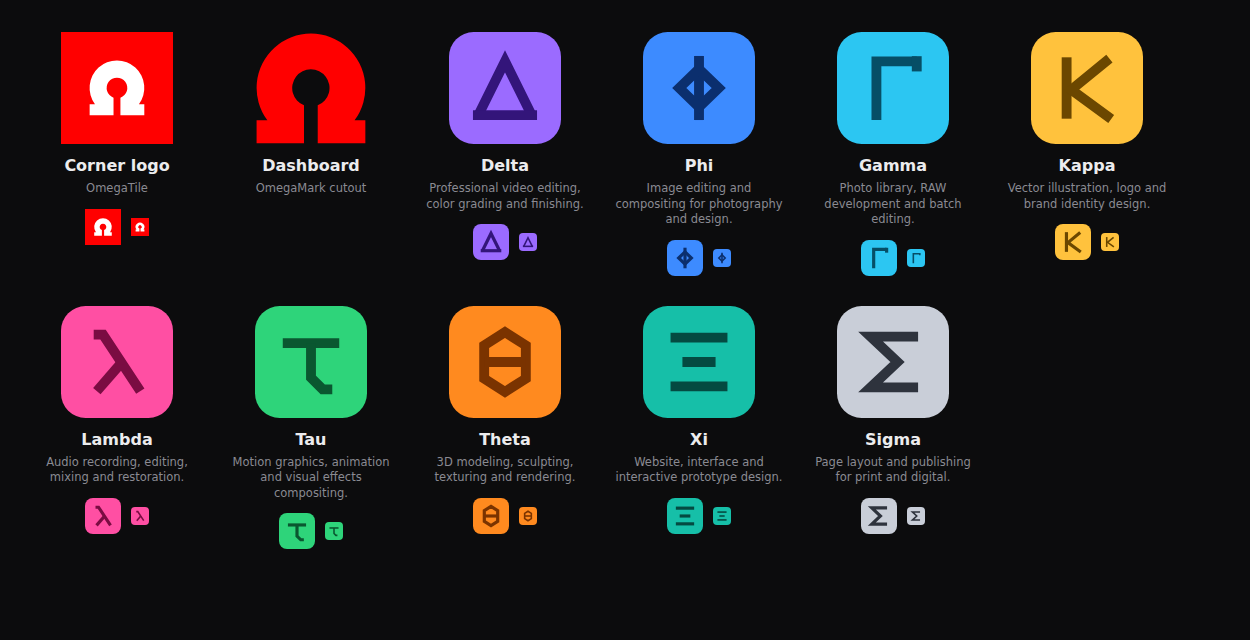
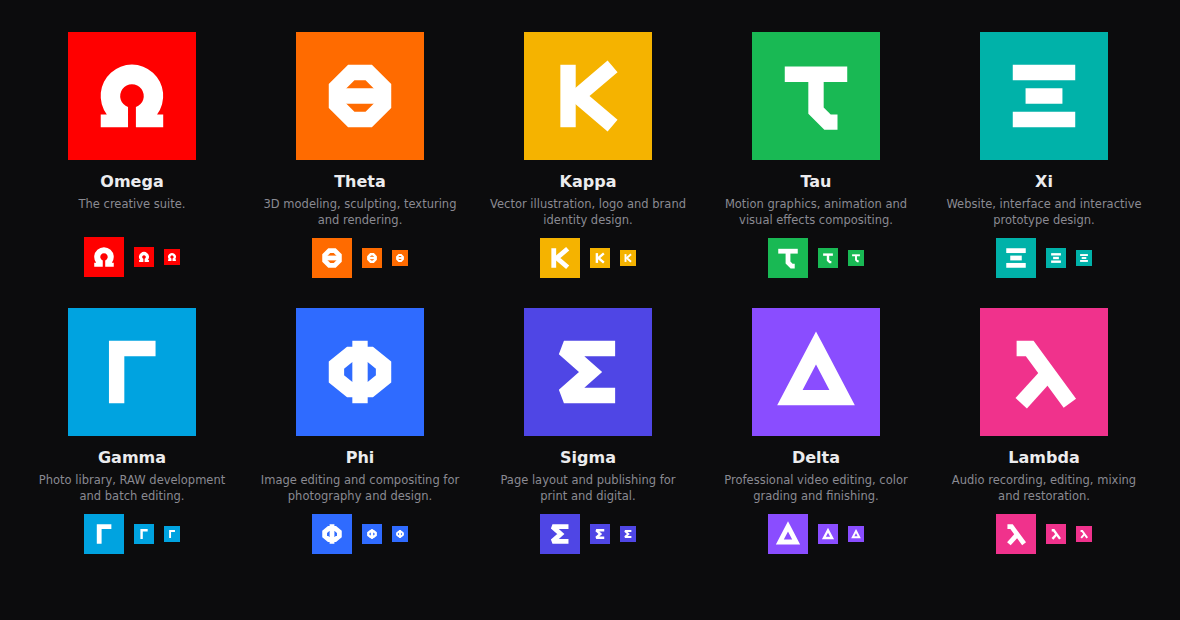
Brand: rainbow palette, white runes at Ω weight on square tiles
App icons now follow the Omega tile exactly: flat square in the app color,
white rune in the middle, same footprint (25.6%-74.4%) and stroke weight as
the Ω. Palette spans the rainbow: red, orange, yellow, green, teal, cyan,
blue, indigo, violet, pink.

Claude-Session: https://claude.ai/code/session_013Hc8SMCXJFk7kkmfE3zAoR

diff --git a/apps/omega/src/brand/Logos.tsx b/apps/omega/src/brand/Logos.tsx
@@ -2,9 +2,9 @@
 //
 // * OmegaMark: the red Ω cutout on a transparent background (dashboard brand).
 // * OmegaTile: the red square with the white Ω (window corner logo, OS icon).
-// * AppMark:   each app's flat tile in its own color, with its Greek-letter
-//              rune drawn in a darker shade of that color. Straight, carved
-//              strokes, no font dependency, identical on every OS.
+// * AppMark:   each app built like the Omega tile: a flat square in the app's
+//              color with its Greek-letter rune in white, matching the Ω's
+//              footprint and weight. Straight strokes, no font dependency.
 // * AppTitle:  the app name with one formal line saying what it is for.
 
 import type { AppKind } from './themes';
@@ -49,14 +49,17 @@ export function OmegaTile({ size = 32, rounded = false, className, title = 'Omeg
   );
 }
 
-/** App marks: a flat tile in the app color with the rune in a darker shade. */
-export function AppMark({ app, size = 32, rounded = true, className }: MarkProps & { app: AppKind }) {
-  if (app === 'omega') return <OmegaTile size={size} className={className} />;
+/**
+ * App marks, built exactly like the Omega tile: a flat square in the app's
+ * color with its rune in white, the same footprint and stroke weight as the Ω.
+ */
+export function AppMark({ app, size = 32, rounded = false, className }: MarkProps & { app: AppKind }) {
+  if (app === 'omega') return <OmegaTile size={size} rounded={rounded} className={className} />;
   const t = THEMES[app];
   return (
     <svg width={size} height={size} viewBox="0 0 1000 1000" className={className} role="img" aria-label={`${t.name} — ${t.category}`}>
-      <rect width="1000" height="1000" rx={rounded ? 220 : 0} fill={t.accent} />
-      <Rune app={app} color={t.rune} />
+      <rect width="1000" height="1000" rx={rounded ? 166 : 0} fill={t.accent} />
+      <Rune app={app} color="#FFFFFF" />
     </svg>
   );
 }
@@ -72,87 +75,78 @@ export function AppRune({ app, size = 24, color, className }: { app: AppKind; si
   );
 }
 
-const STROKE = 88;
+/**
+ * Rune weight and footprint match the Ω in the Omega tile: the Ω occupies
+ * the middle 49% of its tile (25.6%–74.4%) and its strokes are 10–15% of the
+ * tile wide, so runes sit in 256–744 with 120-unit strokes.
+ */
+const STROKE = 120;
 
 /**
  * The app runes: each Greek letter rebuilt from straight, carved strokes —
- * no curves; crossing strokes overshoot slightly like chiselled staves.
+ * no curves, heavy and square-cut like the Ω.
  */
 function Rune({ app, color }: { app: AppKind; color: string }) {
-  const common = { fill: 'none', stroke: color, strokeWidth: STROKE, strokeLinejoin: 'miter' as const, strokeLinecap: 'butt' as const, strokeMiterlimit: 12 };
+  const common = { fill: 'none', stroke: color, strokeWidth: STROKE, strokeLinejoin: 'miter' as const, strokeLinecap: 'butt' as const, strokeMiterlimit: 2.2 };
   switch (app) {
     case 'video':
-      // Δ Delta — two staves meeting at a point, cut by an overshooting base
-      return (
-        <g {...common}>
-          <path d="M262 742 L500 262 L738 742" />
-          <path d="M214 742 H786" />
-        </g>
-      );
+      // Δ Delta
+      return <path {...common} d="M500 312 L704 700 L296 700 Z" />;
     case 'image':
-      // Φ Phi — a full stave through a diamond
+      // Φ Phi — a full stave through a wide carved ring
       return (
         <g {...common}>
-          <path d="M500 214 V786" />
-          <path d="M500 330 L676 500 L500 670 L324 500 Z" />
+          <path d="M500 256 V744" />
+          <path d="M420 362 H580 L684 446 V554 L580 638 H420 L316 554 V446 Z" />
         </g>
       );
     case 'photo':
       // Γ Gamma — a stave and a beam
-      return (
-        <g {...common}>
-          <path d="M352 786 V262 H712" />
-          <path d="M712 216 V352" />
-        </g>
-      );
+      return <path {...common} d="M380 744 V316 H684" />;
     case 'vector':
-      // Κ Kappa — a stave with two arms meeting it at one point
+      // Κ Kappa — a stave and two arms
       return (
         <g {...common}>
-          <path d="M318 226 V774" />
-          <path d="M700 238 L360 516 L716 776" />
+          <path d="M344 256 V744" />
+          <path d="M692 268 L420 500 L692 732" />
         </g>
       );
     case 'audio':
       // λ Lambda — a hooked long stave and a short leg
       return (
         <g {...common}>
-          <path d="M292 256 H376 L708 760" />
-          <path d="M540 506 L320 760" />
+          <path d="M286 316 H388 L702 744" />
+          <path d="M532 512 L322 744" />
         </g>
       );
     case 'motion':
-      // τ Tau — a bar and a stave with a kicked foot
+      // τ Tau — a beam and a stave with a kicked foot
       return (
         <g {...common}>
-          <path d="M248 332 H752" />
-          <path d="M500 332 V640 L604 744 H690" />
+          <path d="M256 330 H744" />
+          <path d="M500 330 V614 L590 704 H668" />
         </g>
       );
     case 'three':
-      // Θ Theta — a tall six-sided ring with a bar
+      // Θ Theta — a tall carved ring with a bar
       return (
         <g {...common}>
-          <path d="M500 234 L686 352 V648 L500 766 L314 648 V352 Z" />
-          <path d="M314 500 H686" />
+          <path d="M432 316 H568 L684 432 V568 L568 684 H432 L316 568 V432 Z" />
+          <path d="M316 500 H684" />
         </g>
       );
     case 'web':
       // Ξ Xi — three beams, the middle one short (a layout grid)
       return (
         <g {...common}>
-          <path d="M246 282 H754" />
-          <path d="M352 500 H648" />
-          <path d="M246 718 H754" />
+          <path d="M256 316 H744" />
+          <path d="M356 500 H644" />
+          <path d="M256 684 H744" />
         </g>
       );
     case 'publish':
       // Σ Sigma — a folded beam
-      return (
-        <g {...common}>
-          <path d="M724 274 H300 L540 500 L300 726 H724" />
-        </g>
-      );
+      return <path {...common} d="M712 316 H312 L520 500 L312 684 H712" />;
     default:
       return null;
   }

diff --git a/apps/omega/src/brand/themes.ts b/apps/omega/src/brand/themes.ts
@@ -2,8 +2,10 @@
 // name, a Greek-letter rune that is its icon, and its own flat color, applied
 // as CSS variables via data-app on <html>.
 //
-// App icons: a flat tile in the app's color with the rune drawn in a darker
-// shade of that same color (src/brand/Logos.tsx).
+// App icons follow the Omega tile: a flat square in the app's color with the
+// rune in white (src/brand/Logos.tsx). The palette spans the whole rainbow,
+// red (Omega) → orange → yellow → green → teal → cyan → blue → indigo →
+// violet → pink.
 //
 // Internal ids ('video', 'image', …) never change; names live only here.
 
@@ -26,7 +28,7 @@ export interface AppTheme {
   accent: string;
   accentDeep: string;
   accentSoft: string; // translucent accent for fills
-  /** Darker shade of the accent, used for the rune on the tile. */
+  /** Rune color on the tile (white, like the Ω on the Omega tile). */
   rune: string;
   /** @deprecated kept for older call sites; same as `accent`. */
   tile: string;
@@ -62,10 +64,10 @@ export const THEMES: Record<AppKind, AppTheme> = {
     short: 'Video',
     letter: 'Δ',
     tagline: 'Edit, grade, mix and deliver. Cinema-grade video editing.',
-    accent: '#9B6BFF',
-    accentDeep: '#6E3BEA',
-    accentSoft: 'rgba(155, 107, 255, 0.16)',
-    rune: '#33157A',
+    accent: '#8A4DFF',
+    accentDeep: '#6A2EE0',
+    accentSoft: 'rgba(138, 77, 255, 0.16)',
+    rune: '#FFFFFF',
     phase: 'Available now (preview)',
     available: true,
   }),
@@ -77,10 +79,10 @@ export const THEMES: Record<AppKind, AppTheme> = {
     short: 'Image',
     letter: 'Φ',
     tagline: 'Layers, masks, brushes and type on a GPU canvas.',
-    accent: '#3D8BFF',
-    accentDeep: '#1F5FD6',
-    accentSoft: 'rgba(61, 139, 255, 0.16)',
-    rune: '#0B2F6E',
+    accent: '#2F6BFF',
+    accentDeep: '#1C4FD6',
+    accentSoft: 'rgba(47, 107, 255, 0.16)',
+    rune: '#FFFFFF',
     phase: 'Phase 3',
     available: false,
   }),
@@ -92,10 +94,10 @@ export const THEMES: Record<AppKind, AppTheme> = {
     short: 'Photo',
     letter: 'Γ',
     tagline: 'Organize, develop and deliver entire shoots.',
-    accent: '#2CC6F2',
-    accentDeep: '#0E93BC',
-    accentSoft: 'rgba(44, 198, 242, 0.16)',
-    rune: '#064E66',
+    accent: '#00A3E0',
+    accentDeep: '#0081B3',
+    accentSoft: 'rgba(0, 163, 224, 0.16)',
+    rune: '#FFFFFF',
     phase: 'Phase 3',
     available: false,
   }),
@@ -107,10 +109,10 @@ export const THEMES: Record<AppKind, AppTheme> = {
     short: 'Vector',
     letter: 'Κ',
     tagline: 'Precise paths, type and brand systems that scale to any size.',
-    accent: '#FFC23D',
-    accentDeep: '#D99A0B',
-    accentSoft: 'rgba(255, 194, 61, 0.16)',
-    rune: '#6B4700',
+    accent: '#F5B300',
+    accentDeep: '#C98F00',
+    accentSoft: 'rgba(245, 179, 0, 0.16)',
+    rune: '#FFFFFF',
     phase: 'Phase 3',
     available: false,
   }),
@@ -122,10 +124,10 @@ export const THEMES: Record<AppKind, AppTheme> = {
     short: 'Audio',
     letter: 'λ',
     tagline: 'Record, mix and repair. Podcasts, music and dialogue.',
-    accent: '#FF4FA3',
-    accentDeep: '#D61F7A',
-    accentSoft: 'rgba(255, 79, 163, 0.16)',
-    rune: '#7A0C42',
+    accent: '#F0328C',
+    accentDeep: '#C71A6C',
+    accentSoft: 'rgba(240, 50, 140, 0.16)',
+    rune: '#FFFFFF',
     phase: 'Phase 2',
     available: false,
   }),
@@ -137,10 +139,10 @@ export const THEMES: Record<AppKind, AppTheme> = {
     short: 'Motion',
     letter: 'τ',
     tagline: 'Keyframes, shape layers and compositing, by layers or nodes.',
-    accent: '#2ED47A',
-    accentDeep: '#169E55',
-    accentSoft: 'rgba(46, 212, 122, 0.16)',
-    rune: '#0A5730',
+    accent: '#19B954',
+    accentDeep: '#0F8F3F',
+    accentSoft: 'rgba(25, 185, 84, 0.16)',
+    rune: '#FFFFFF',
     phase: 'Phase 2',
     available: false,
   }),
@@ -152,10 +154,10 @@ export const THEMES: Record<AppKind, AppTheme> = {
     short: '3D',
     letter: 'Θ',
     tagline: 'Model, sculpt, texture and render. Scenes drop straight into Delta.',
-    accent: '#FF8A1F',
-    accentDeep: '#D9620A',
-    accentSoft: 'rgba(255, 138, 31, 0.16)',
-    rune: '#7A3300',
+    accent: '#FF6B00',
+    accentDeep: '#D45400',
+    accentSoft: 'rgba(255, 107, 0, 0.16)',
+    rune: '#FFFFFF',
     phase: 'Phase 4',
     available: false,
   }),
@@ -167,10 +169,10 @@ export const THEMES: Record<AppKind, AppTheme> = {
     short: 'Web',
     letter: 'Ξ',
     tagline: 'Design responsive sites and apps, then publish or hand off.',
-    accent: '#16BFA8',
-    accentDeep: '#0B8F7E',
-    accentSoft: 'rgba(22, 191, 168, 0.16)',
-    rune: '#044A41',
+    accent: '#00B2A9',
+    accentDeep: '#008A83',
+    accentSoft: 'rgba(0, 178, 169, 0.16)',
+    rune: '#FFFFFF',
     phase: 'Phase 4',
     available: false,
   }),
@@ -182,10 +184,10 @@ export const THEMES: Record<AppKind, AppTheme> = {
     short: 'Layout',
     letter: 'Σ',
     tagline: 'Books, magazines, decks and PDFs with real typography.',
-    accent: '#C9CED8',
-    accentDeep: '#9AA1AE',
-    accentSoft: 'rgba(201, 206, 216, 0.14)',
-    rune: '#2E333D',
+    accent: '#4F46E5',
+    accentDeep: '#3A32C4',
+    accentSoft: 'rgba(79, 70, 229, 0.18)',
+    rune: '#FFFFFF',
     phase: 'Phase 5',
     available: false,
   }),
